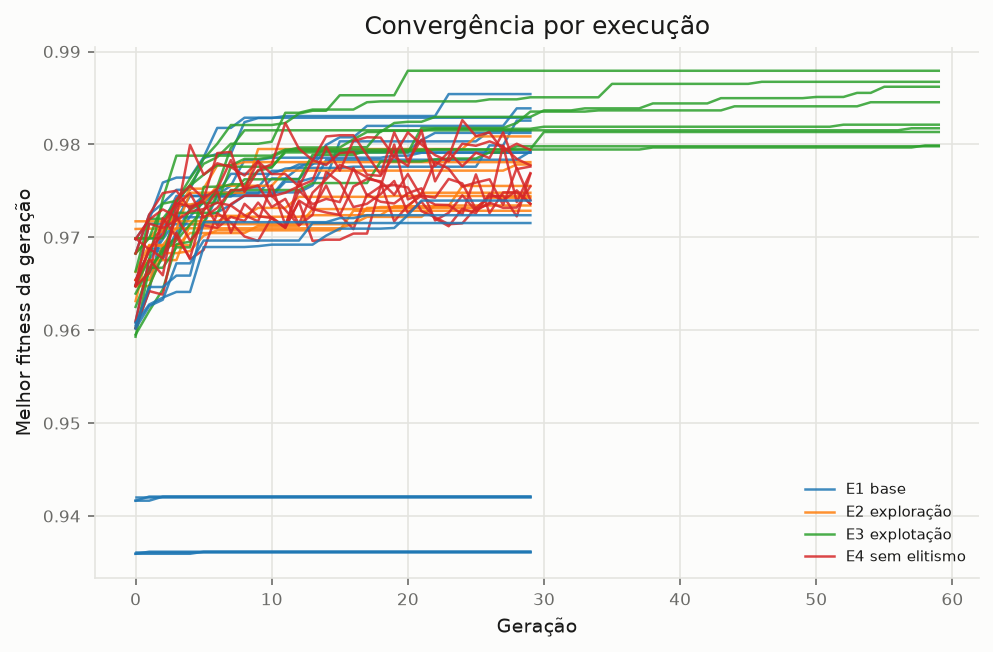
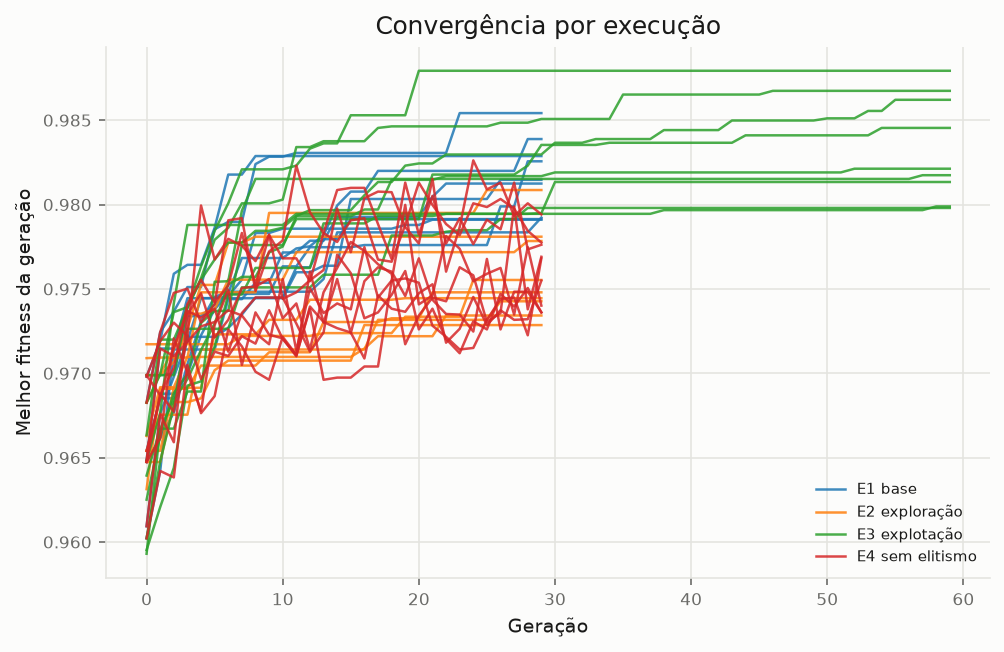
fix(genetic): keep ablation arms out of the convergence figure
The ablation arms run under the E1 name with frozen segments, and the
convergence figure drew them as E1 runs: the hyperparameters-only arm
sat as a flat line at 0.936, reading as an E1 search that never
evolved. The figure now draws only the full arm, which is what it
compares across E1 to E4. Seen on the full run's figure, not caught by
any error.

diff --git a/tests/test_genetic_plots.py b/tests/test_genetic_plots.py
@@ -106,3 +106,21 @@ def test_varredura_desenha_uma_curva_por_parcimonia_em_cada_painel(payload_ag):
         assert len(eixo.get_lines()) == 2
         for linha in eixo.get_lines():
             assert list(linha.get_xdata()) == [5.0, 10.0, 20.0]
+
+
+def test_convergencia_ignora_os_bracos_de_ablacao(payload_ag):
+    """A figura compara as configuracoes E1 a E4 do algoritmo completo.
+
+    Os bracos de ablacao rodam sob o nome de E1, mas com segmentos congelados: o
+    "so hiperparametros" fica numa reta em 0,936 e apareceria como uma execucao
+    do E1 que nao evoluiu nada — figura plausivel, leitura errada.
+    """
+    payloads = [
+        payload_ag(braco="AG, completo", semente=42),
+        payload_ag(braco="AG, completo", semente=43),
+        payload_ag(braco="AG, só limiar", semente=42, segmentos=("limiar",)),
+    ]
+
+    figura = plots.figura_convergencia(payloads)
+
+    assert len(figura.axes[0].get_lines()) == 2

diff --git a/src/genetic/plots.py b/src/genetic/plots.py
@@ -42,8 +42,13 @@ def figura_convergencia(payloads: list[dict[str, Any]]) -> plt.Figure:
     Cada semente e desenhada — a dispersao entre elas e informacao, nao ruido a
     esconder atras de uma media — mas a legenda identifica o **experimento**. A
     execucao completa tem 45 buscas, e uma legenda com 45 entradas nao se le.
+
+    So entra o braco completo. As ablacoes rodam sob o nome de E1 com segmentos
+    congelados, e desenhadas apareceriam como execucoes do E1 que nao evoluiram
+    nada: figura plausivel, leitura errada.
     """
     apply_style()
+    payloads = [p for p in payloads if p.get("braco", "AG, completo") == "AG, completo"]
     figura, eixo = plt.subplots(figsize=(7.6, 4.6))
 
     ciclo = plt.rcParams["axes.prop_cycle"].by_key().get("color", [COLOR_BENIGNO])
